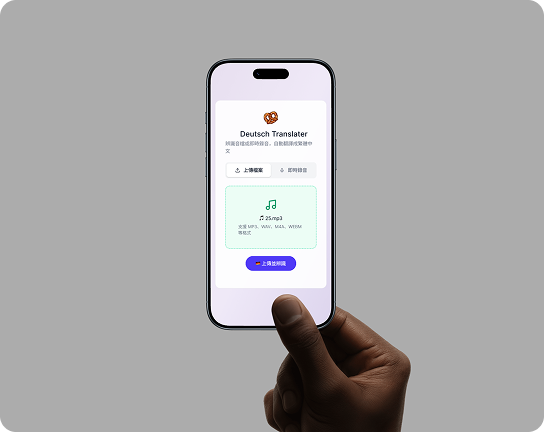
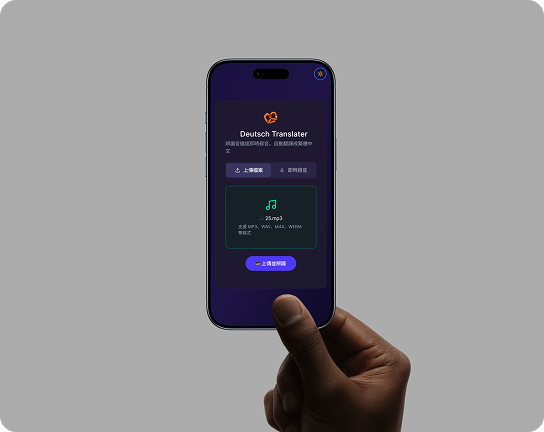
content: 更新2 個案例頁、圖片
- 案例頁：star-overlay、talk-german
- 圖片：
  · talk-german：5 張更換

由 npm run publish 產生；發布前已通過 astro build 驗證。

Changed region(s): [[0.375, 0.1204, 0.625, 0.7523]]

diff --git a/src/content/projects/talk-german.md b/src/content/projects/talk-german.md
@@ -31,6 +31,7 @@ sections:
       - '[需確認] 這裡放研究方法／框架說明，待設計師提供實際內容。'
     ratio: 4/3
     alt: '[需確認] Research framework diagram'
+    layout: stacked
   - type: persona
     eyebrow: PERSONA
     heading: '[需確認] Persona 標題，待設計師提供'
@@ -48,6 +49,9 @@ sections:
         description: '[需確認] 主題說明，待補'
       - title: '[需確認] 主題標題'
         description: '[需確認] 主題說明，待補'
+      - title: '[需確認] 主題標題'
+        description: '[需確認] 主題說明，待補'
+    direction: vertical
   - type: experienceDemo
     eyebrow: EXPERIENCE DEMO
     heading: See Talk German in Action
@@ -61,6 +65,7 @@ sections:
       in real-world environments.
     ratio: 9/16
     alt: Talk German translation screen demo on a single phone
+    layout: stacked
   - type: featureSplit
     heading: Experience the Intuitive Flow
     body: >-
@@ -83,18 +88,15 @@ sections:
           a low-friction experience.
         ratio: 3/4
         alt: Intuitive Authentication screen
-      - heading: Seamless Audio Capture
-        body: >-
-          This screen features a streamlined, dual-mode information architecture
-          for input selection.
+      - heading: '[需確認] 欄位標題'
+        body: '[需確認] 欄位說明，待補'
         ratio: 3/4
-        alt: Seamless Audio Capture screen
-      - heading: Parallel Insight
-        body: >-
-          Once the complex audio recognition is complete, the resulting layout
-          focuses on context retention and immediate verification.
+        alt: '[需確認] Feature column'
+      - heading: '[需確認] 欄位標題'
+        body: '[需確認] 欄位說明，待補'
         ratio: 3/4
-        alt: Parallel Insight screen
+        alt: '[需確認] Feature column'
+    direction: horizontal
   - type: featureSplit
     heading: Daylight Accessibility
     body: >-
@@ -113,5 +115,7 @@ sections:
     imagePosition: left
     ratio: 3/4
     alt: Dark mode screen of Talk German
+    ctaLabel: Let's Try Out
+    ctaHref: '#'
 ---
 

diff --git a/src/content/projects/star-overlay.md b/src/content/projects/star-overlay.md
@@ -53,6 +53,7 @@ sections:
       - title: Display
       - title: Space Grotesk
       - title: Component
+    direction: vertical
   - type: flow
     eyebrow: FLOW
     heading: Experience the Intuitive Flow
@@ -63,6 +64,7 @@ sections:
       - label: Upload
         ratio: 3/4
         alt: Upload step
+    direction: horizontal
   - type: experienceDemo
     eyebrow: EXPERIENCE DEMO
     heading: Star Overlay editor in Action
@@ -77,6 +79,7 @@ sections:
       one focused, obvious tool — pick a shape, scatter it, export.
     ratio: 16/10
     alt: Two phone mockups showing the Star Overlay app screens
+    layout: stacked
   - type: featureSplit
     heading: Experience the Intuitive Flow
     body: >-
@@ -113,6 +116,7 @@ sections:
           upload or sign-up — so you can post straight to Instagram.
         ratio: 3/4
         alt: Export PNG screen
+    direction: horizontal
   - type: featureSplit
     heading: 'Everything the trend needs, nothing it doesn''t'
     body: >-
